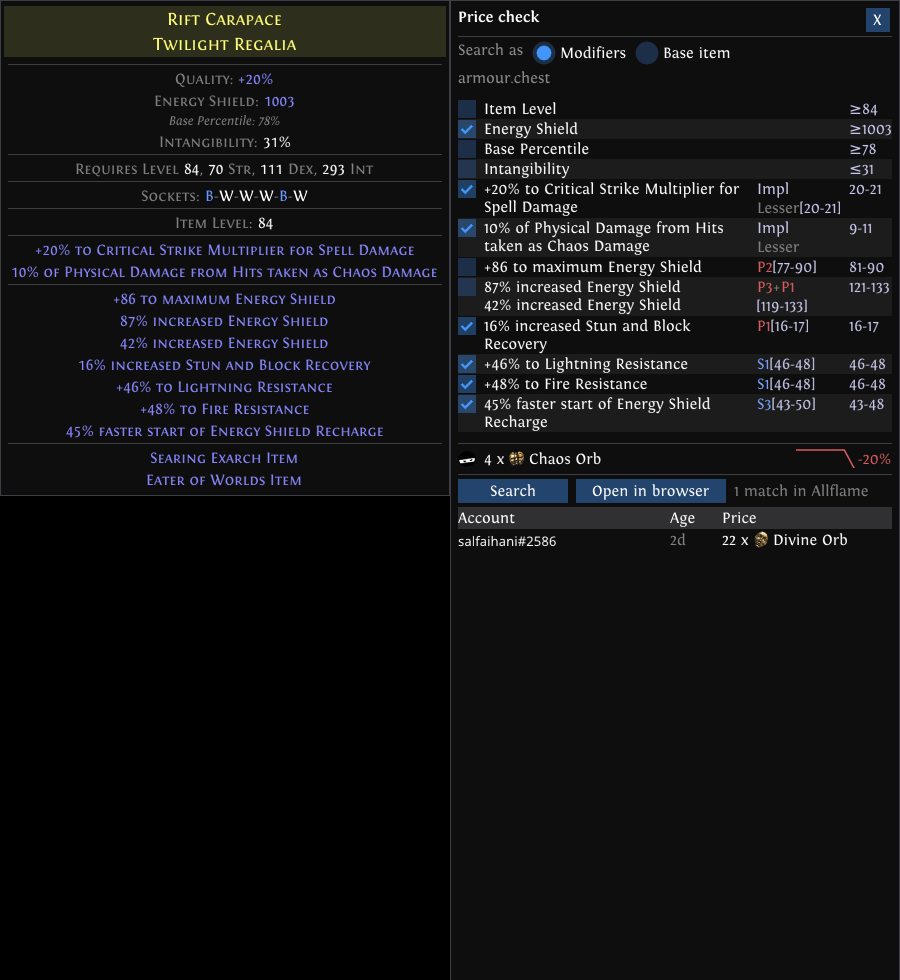
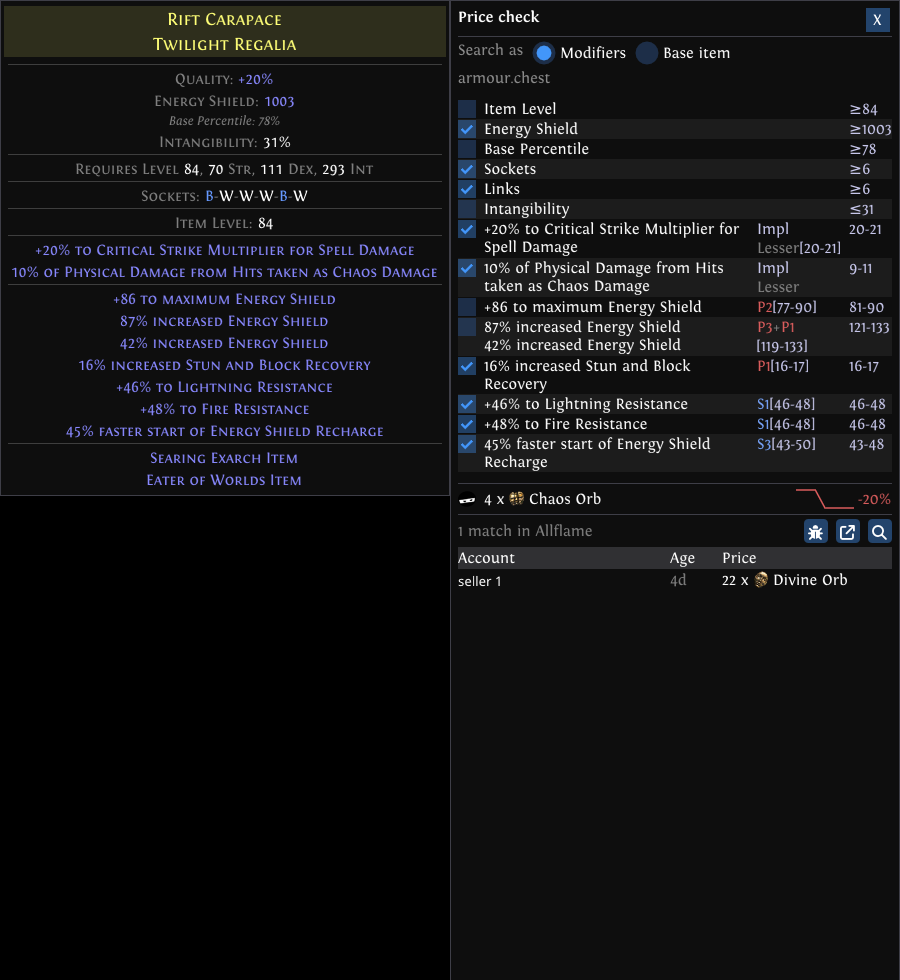
The gallery is what the tool looks like today, and nobody's handle is on it
ADDED: `PPC_DEV_ANON` masks every seller's handle for a whole run, which is what the website's screenshots are now taken with.

- The masking a bug-report capture already did for one frame, held on. These pictures are
  published, and the handles on them are not ours to publish.

ADDED: A slide for the bug reporter, staged by the capture script rather than photographed as found — the dialog is clicked open, a description typed and the consent ticked.

- A report with an empty description photographs as a form nobody filled in.

CHANGED: Every screenshot is recaptured. They still showed the old palette and a Settings dialog from before it had tabs.
CHANGED: `account_name` is blanked for the run, so the Settings shot draws the placeholder a new user sees.
CHANGED: The update check is pointed at a closed port for the run, so no shot opens on a "new version" banner.
CHANGED: The capture helper clicks and types, and a shot says what it needs beyond an item in `stage`.
REMOVED: The unique-reference slide. The listing-hover shot is the same item and tells the whole of it, so its selling points moved there.

Changed region(s): [[0.4978, 0.1531, 0.9956, 0.6122]]

diff --git a/src/app.hpp b/src/app.hpp
@@ -262,6 +262,14 @@ public:
     /// and the first is somebody else's name.
     bool report_capture_pending() const { return report_opening_ != Opening::No; }
 
+    /// Whether a seller's handle is drawn or replaced by its position in the results.
+    ///
+    /// True for the one frame a bug report is photographed on, and for the whole run under
+    /// `PPC_DEV_ANON` — which is what `scripts/capture-screenshots.sh` takes the website's
+    /// pictures with, since those are published and the handles on them are not ours to publish.
+    /// Only the handles: prices, ages and counts are what a screenshot is read for.
+    bool mask_sellers() const { return report_capture_pending() || anonymise_; }
+
     /// Copy-path diagnostic log (util/debug_log). Toggling it takes effect immediately —
     /// waiting for Save would mean the run that reproduced the bug went unrecorded — but it
     /// still needs a Save to persist.
@@ -375,8 +383,9 @@ private:
     /// it, because SDL's `has_focus()` lags the call by a round trip and the moment it matters
     /// most — a paste popup dismissed the instant it opened — is inside that gap.
     bool took_keyboard_ = false;
-    bool dev_mode_ = false;  ///< PPC_DEV_OVERLAY: keep overlay up regardless of focus
-    bool had_focus_ = false; ///< overlay has gained focus since it was shown
+    bool dev_mode_ = false;   ///< PPC_DEV_OVERLAY: keep overlay up regardless of focus
+    bool anonymise_ = false;  ///< PPC_DEV_ANON: never draw a seller's handle (see mask_sellers)
+    bool had_focus_ = false;  ///< overlay has gained focus since it was shown
 
     // One contiguous block from SDL_RegisterEvents. Kept as distinct types rather than
     // widening Action: handle_action() gates on the game being foreground, which would

diff --git a/src/screens/pricecheck_screen.cpp b/src/screens/pricecheck_screen.cpp
@@ -1598,12 +1598,13 @@ void draw_results(App& app, float gutter_top) {
     // indistinguishable from the rest of the page, and the page is what a price is read off:
     // an own listing sitting at the top reads as the market's floor, which it is not.
     const std::string& me = app.config().account_name;
-    // **Nobody's name goes in a bug report.** On the frame the panel is being read back for one,
-    // every handle is replaced by its position in the results — which is all a maintainer reading
-    // the picture ever needed: that these are twenty different sellers, and which row is which.
-    // The user's own marker stays, because it names nobody and is the one thing on the row that
-    // explains its colour.
-    const bool masked = app.report_capture_pending();
+    // **Nobody's name goes in a picture that leaves this machine.** On the frame the panel is
+    // being read back for a bug report — and for the whole run when the website's screenshots are
+    // being taken — every handle is replaced by its position in the results, which is all a
+    // reader of the picture ever needed: that these are twenty different sellers, and which row
+    // is which. The user's own marker stays, because it names nobody and is the one thing on the
+    // row that explains its colour.
+    const bool masked = app.mask_sellers();
 
     for (size_t i = 0; i < t.results().listings.size(); ++i) {
         const trade::Listing& l = t.results().listings[i];

diff --git a/src/app.cpp b/src/app.cpp
@@ -333,6 +333,7 @@ int App::run(bool relaunched_after_update) {
     if (!std::getenv("PPC_MANAGED")) overlay_set_unmanaged(overlay_.window(), true);
 
     dev_mode_ = std::getenv("PPC_DEV_OVERLAY") != nullptr;
+    anonymise_ = std::getenv("PPC_DEV_ANON") != nullptr;
     log_session_start(); // after dev_mode_, which changes what every gate below does
     if (dev_mode_) { // local UI dev, no game needed
         overlay_.set_visible(true);

diff --git a/site/README.md b/site/README.md
@@ -56,20 +56,31 @@ The overlay is drawn on a **virtual X display**, which is what makes this reprod
 nothing appears on screen, the system-wide hotkey grabs land on `:99` where they bother nobody,
 and the screen is black everywhere the overlay did not paint, so trimming leaves the panel and
 the item beside it and nothing else. `PPC_DEV_ITEM` opens the panel on a captured clipboard with
-no game running; the one shot that cannot be staged that way — the seller's item drawn beside a
-hovered listing — is taken by moving the pointer over a row with `XTestFakeMotionEvent`, since a
-plain `XWarpPointer` moves the pointer without generating the motion a widget reacts to.
+no game running.
 
-Every shot is cropped to a **common 980px height**, which is what the Settings dialog measures
-and comfortably clears the tallest panel. That also crops away the footer, which on a machine
-with the debug log on draws the check id and is not worth publishing.
+What that cannot open, the pointer does, through `XTestFakeMotionEvent` — a plain `XWarpPointer`
+moves the pointer without generating the motion a widget reacts to. The same helper clicks and
+types, and `stage` in the script is where a shot says what it needs beyond an item: the seller's
+item drawn beside a hovered listing is a move, and the bug reporter is a click onto its glyph, a
+description typed into the box and the consent ticked, because a report with an empty description
+photographs as a form nobody filled in. Its coordinates are the **virtual screen's** and they move
+whenever the panel width or the screen geometry does — re-derive them from a capture rather than
+trusting them.
 
-The run does two things worth knowing. It **spends real trade API requests**, one search per
-item, because a screenshot of an empty results table sells nothing. And it overrides
-`auto_search` and `debug_log` for the duration and puts the config back afterwards — without
-that the Settings shot shows this machine's state and its home directory rather than what a new
-user sees.
+No shot is taller than **980px**, which comfortably clears the tallest panel. That also crops away
+the panel footer, which on a machine with the debug log on draws the check id and is not worth
+publishing. Dialogs come out at their own size — the bug reporter is a fixed 940×660.
 
-Check each one before committing: a listing row carries the **seller's** handle (public on the
-trade site anyway), and **your own** listings are tinted green with `(you)` whenever
-`account_name` is filled in.
+**Nobody's name is published.** `PPC_DEV_ANON` holds on the same masking a bug-report capture
+does, so every seller is `seller 1`, `seller 2` — and `account_name` is blanked in the config for
+the run, so the Settings shot draws the placeholder a new user sees rather than the maintainer's
+handle. The config is put back afterwards, along with the `auto_search` and `debug_log` overrides
+that make the run look like a fresh install rather than this machine. The update check is pointed
+at a closed port for the same reason: the build in the tree is usually behind the published
+release, and a screenshot selling the tool should not open on a "new version" banner.
+
+Still check each one before committing. The masking covers the results table, and what it cannot
+cover is anything else that happens to name this machine — a path, a league, a window title.
+
+The run **spends real trade API requests**, one search per item, because a screenshot of an empty
+results table sells nothing.

diff --git a/docs/reporting.md b/docs/reporting.md
@@ -66,7 +66,9 @@ resize the dialog brings must not land inside one.
   the user's own, on the row `account_name` marks as theirs. What a maintainer needs off the
   picture is that these are twenty different sellers and which row is which; the handles are
   somebody else's name and are worth nothing in a bug report. Prices, ages and the counts stay,
-  because those are what a mispricing is read against.
+  because those are what a mispricing is read against. The predicate is `App::mask_sellers`, not
+  `report_capture_pending` directly: `PPC_DEV_ANON` holds the same masking on for a whole run,
+  which is what the website's screenshots are taken with, and both exist for the same reason.
 - **No button shows its tooltip.** The cursor is on the report button when it is pressed, so
   without this every capture carries "Report a Bug" hovering over the panel — a picture of the act
   of reporting rather than of the thing being reported.

diff --git a/docs/architecture.md b/docs/architecture.md
@@ -353,7 +353,9 @@ appears while the game is the window in front). `PPC_DEV_UPDATE_URL=<url>` point
 at a `latest.json` of your own, which is the only way to see its three notice surfaces before a
 release publishes one — see [updater.md](updater.md). `PPC_REPORT_URL=<url>` points the bug
 reporter at a relay of your own, which is how its two outcomes are seen without posting into the
-real channel — see [reporting.md](reporting.md).
+real channel — see [reporting.md](reporting.md). `PPC_DEV_ANON=1` replaces every seller's handle
+in the results with its position for the whole run — the masking a bug-report capture already
+does for one frame, held on, because `scripts/capture-screenshots.sh` publishes what it takes.
 
 The Windows binary is **GUI-subsystem** (`WIN32_EXECUTABLE`, entered at `WinMain` in `src/main.cpp`):
 a console-subsystem build pops a console window beside an application whose whole UI is an overlay
